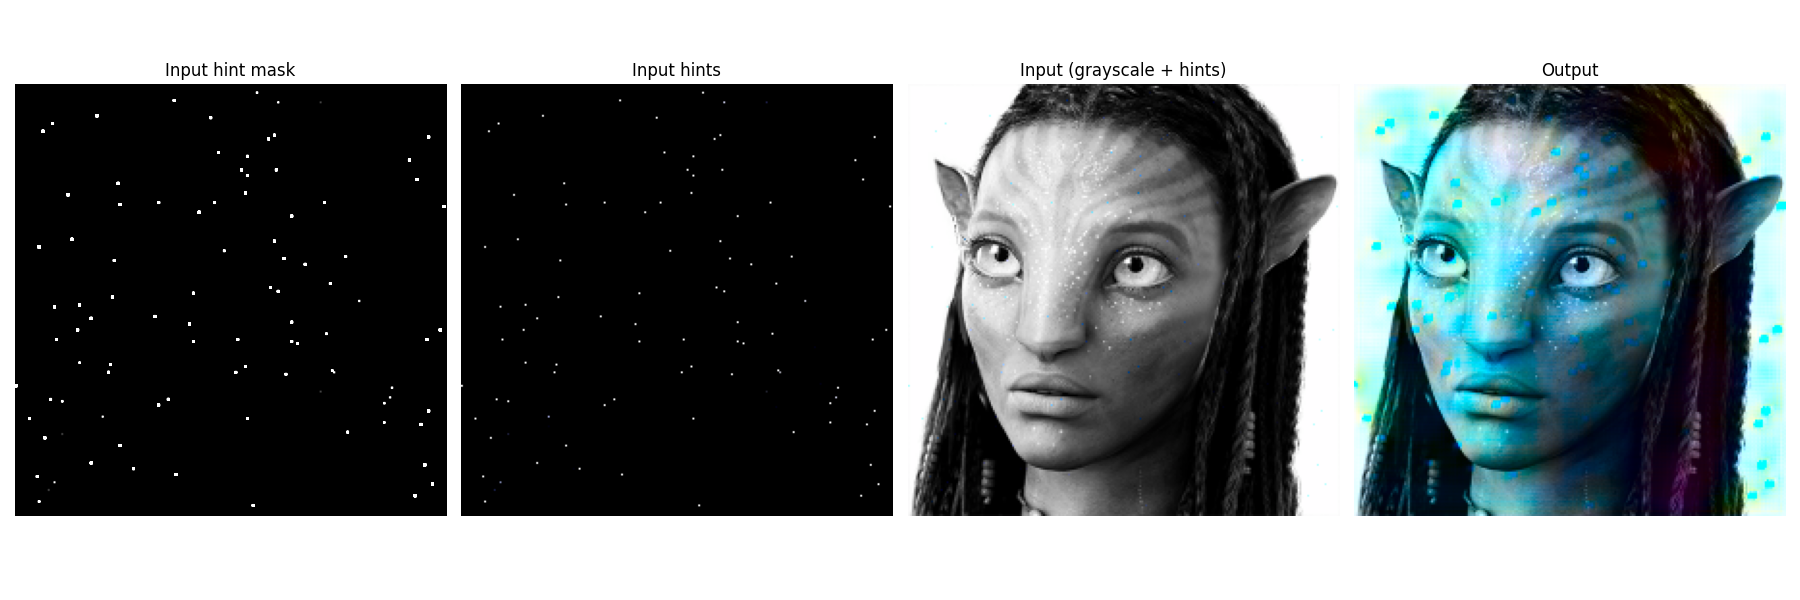
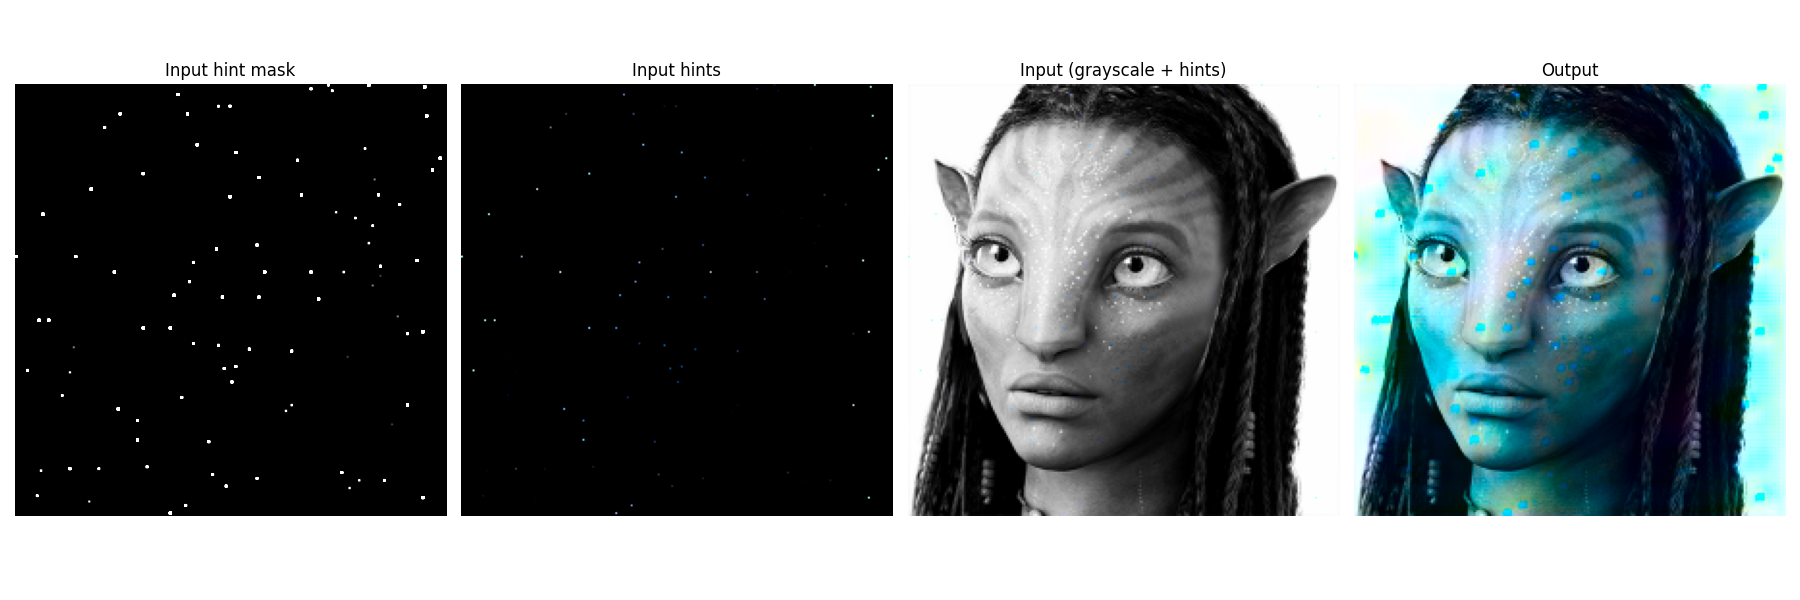
update clip function

Changed region(s): [[0.7467, 0.12, 0.9956, 0.87]]

diff --git a/run_model.py b/run_model.py
@@ -30,9 +30,9 @@ parser.add_argument('--hw_class', type=float, default=(50,120), nargs='+', help=
 # constants
 parser.add_argument('--l_norm', type=float, default=100., help='L normalization')
 parser.add_argument('--l_cent', type=float, default=50., help='L center')
-parser.add_argument('--ab_norm', type=float, default=110., help='ab normalization')
+parser.add_argument('--ab_norm', type=float, default=110., help='ab normalization')  
 parser.add_argument('--mask_cent', type=float, default=0., help='hint mask centering')
-parser.add_argument('--HW_proc', type=float, default=(224,224), nargs='+', help='dimension to process image')
+parser.add_argument('--HW_proc', type=float, default=(270,180), nargs='+', help='dimension to process image')
 parser.add_argument('--A', type=int, default=23, help='number of bins')
 parser.add_argument('--ab_step', type=int, default=10., help='ab increments when discretizing')
 
@@ -44,12 +44,14 @@ H_proc, W_proc = opt.HW_proc
 if(opt.hint_ab_path is None):
 	in_ab = np.zeros((H_proc, W_proc, 2))
 else:
-	in_ab = np.load(opt.hint_ab_path).transpose((1,2,0)) # ./imgs/migrant_mother/im_ab.npy
+	# in_ab = np.load(opt.hint_ab_path).transpose((1,2,0)) # ./imgs/migrant_mother/im_ab.npy
+	in_ab = np.load(opt.hint_ab_path)
 
 if(opt.hint_mask_path is None):
 	in_mask = np.zeros((H_proc, W_proc, 1))
 else:
-	in_mask = 1.*np.load(opt.hint_mask_path).transpose((1,2,0)) # ./imgs/migrant_mother/im_mask.npy
+	# in_mask = 1.*np.load(opt.hint_mask_path).transpose((1,2,0)) # ./imgs/migrant_mother/im_mask.npy
+	in_mask = 1.*np.load(opt.hint_mask_path)
 
 if(opt.arch=='siggraph'):
 	import models.siggraph
@@ -108,7 +110,8 @@ out_rgb = util.lab2rgb_clip(out_lab)
 out_entropy = -torch.sum(out_class*torch.log(out_class),dim=1,keepdim=True)
 
 # for visualization
-in_ab_lab_flat = np.concatenate((in_mask*50, in_ab), axis=2)
+# in_ab_lab_flat = np.concatenate((in_mask*50, in_ab), axis=2)
+in_ab_lab_flat = np.concatenate((in_mask, in_ab), axis=2)
 in_ab_rgb_flat = util.lab2rgb_clip(in_ab_lab_flat)
 
 in_ab_lab_img = np.concatenate((img_rs_l, in_ab), axis=2)
@@ -123,17 +126,17 @@ plt.title('Input hint mask')
 plt.axis('off')
 
 plt.subplot(1,4,2)
-plt.imshow(in_ab_rgb_flat)
+plt.imshow(in_ab_rgb_flat[:,:,::-1])
 plt.title('Input hints')
 plt.axis('off')
 
 plt.subplot(1,4,3)
-plt.imshow(in_ab_rgb_img)
+plt.imshow(in_ab_rgb_img[:,:,::-1])
 plt.title('Input (grayscale + hints)')
 plt.axis('off')
 
 plt.subplot(1,4,4)
-plt.imshow(out_rgb)
+plt.imshow(out_rgb[:,:,::-1])
 plt.title('Output')
 plt.axis('off')
 

diff --git a/models/siggraph.py b/models/siggraph.py
@@ -106,6 +106,7 @@ class SIGGRAPHGenerator(nn.Module):
         model_out+=[nn.Tanh()]
 
         self.subsamp = nn.AvgPool2d(kernel_size=1, stride=2)
+        self.samp = nn.AvgPool2d(kernel_size=1, stride=1, padding=0)
 
         self.model1 = nn.Sequential(*model1)
         self.model2 = nn.Sequential(*model2)
@@ -131,6 +132,9 @@ class SIGGRAPHGenerator(nn.Module):
         self.softmax = nn.Sequential(*[nn.Softmax(dim=1),])
 
     def forward(self, input_A, input_B, mask_B):
+        print('input A', input_A.shape)
+        print('input_B', input_B.shape)
+        print('mask_B', mask_B.shape)
         conv1_2 = self.model1(torch.cat((input_A,input_B,mask_B),dim=1))
         conv2_2 = self.model2(self.subsamp(conv1_2))
         conv3_3 = self.model3(self.subsamp(conv2_2))
@@ -138,6 +142,12 @@ class SIGGRAPHGenerator(nn.Module):
         conv5_3 = self.model5(conv4_3)
         conv6_3 = self.model6(conv5_3)
         conv7_3 = self.model7(conv6_3)
+
+        # print(conv7_3.shape) # 1, 512, 34, 23
+        # print(conv3_3.shape) # 1, 256, 68, 45
+        # print(self.model8up(conv7_3).shape)  #(1, 256, 68, 46)
+        # print(self.model3short8(conv3_3).shape) #(1, 256, 68, 45)
+        # print(self.model8(conv7_3).shape)
 
         conv8_up = self.model8up(conv7_3) + self.model3short8(conv3_3)
         conv8_3 = self.model8(conv8_up)

diff --git a/util.py b/util.py
@@ -15,7 +15,8 @@ def tens2np(in_tens):
 	return in_tens.cpu().numpy().transpose((2,3,1,0))[:,:,:,0]
 
 def lab2rgb_clip(in_lab):
-	return np.clip(color.lab2rgb(in_lab),0,1)
+	# return np.clip(color.lab2rgb(in_lab),0,1)
+	return np.uint8(np.clip(color.lab2rgb(in_lab),0,1)*255)
 
 
 def add_color_patch(in_ab,in_mask,ab=[0,0],hw=[128,128],P=5):
